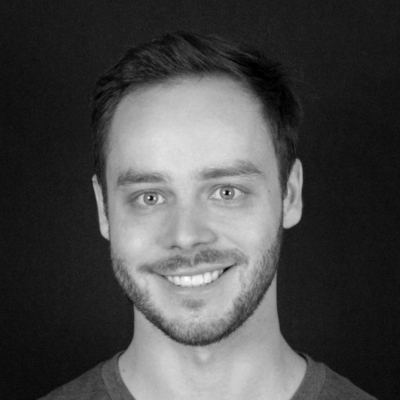
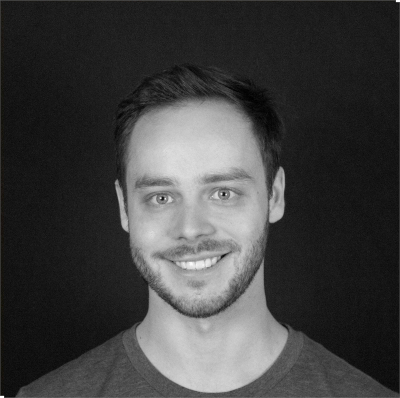
New picture and some js/css

Changed region(s): [[0.0, 0.0, 1.0, 1.0], [0.0, 0.0, 0.03, 0.0302]]

diff --git a/assets/css/main.css b/assets/css/main.css
@@ -71,6 +71,8 @@ body {
 	
 }
 
+
+
 mark {
 	background-color: transparent;
 	color: inherit;
@@ -3339,3 +3341,41 @@ p.mailing{
 	line-height: 1.2;
 }
 
+button.collapsible{
+  background-color: inherit;
+  color: inherit;
+  cursor: inherit;
+  padding: inherit;
+  width: inherit;
+  border: inherit;
+  text-align: inherit;
+  outline: inherit;
+  font-size: inherit;
+}
+
+.collapsible_content {
+  padding: 0 18px;
+  background-color: white;
+  max-height: 0;
+  overflow: hidden;
+  transition: max-height 0.3s ease-out;
+}
+
+.collapsible:after {
+  content: ' \02795'; /* Unicode character for "plus" sign (+) */
+/*
+  font-size: 13px;
+  color: white;
+  float: right;
+  margin-left: 5px;
+*/
+}
+
+.collapsible.active:after {
+  content: " \2796"; /* Unicode character for "minus" sign (-) */
+}
+
+
+.collapsible:hover {
+  background: rgba(0, 0, 0, 0.05) 
+}

diff --git a/assets/js/collapse.js b/assets/js/collapse.js
@@ -1,0 +1,14 @@
+var coll = document.getElementsByClassName("collapsible");
+var i;
+
+for (i = 0; i < coll.length; i++) {
+  coll[i].addEventListener("click", function() {
+    this.classList.toggle("active");
+    var content = this.nextElementSibling;
+    if (content.style.maxHeight){
+      content.style.maxHeight = null;
+    } else {
+      content.style.maxHeight = content.scrollHeight + "px";
+    }
+  });
+}
